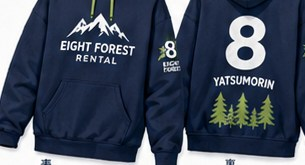
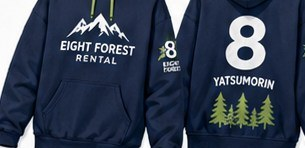
やつもりんグッズ一覧を均一・きれいに（画像切れ/ノイズ解消）
グッズ画像がバラバラの縦横比で切れて見えていたのを、正方形の均一タイル
＋contain（全体表示・切れなし）＋淡い背景＋ドロップシャドウの
商品カタログ風に刷新。Tシャツ/パーカー/ニットキャップ画像の下端に
写り込んでいた生成ノイズ（「車」「宙」風の文字・注意書き）をトリミング除去。
headless実測で全12点フル表示・ノイズ無しを確認。

diff --git a/pages/yatsumorin.html b/pages/yatsumorin.html
@@ -39,13 +39,13 @@
 .ym-quote p{font-size:13.5px;line-height:1.9;color:#15314f;font-weight:700;margin:0}
 .ym-two{display:grid;grid-template-columns:1fr 1fr;gap:12px}
 @media(max-width:520px){.ym-two{grid-template-columns:1fr}}
-.goods-grid{display:grid;grid-template-columns:1fr 1fr;gap:12px}
-.goods-card{border:1px solid var(--border,#dde2e8);border-radius:12px;overflow:hidden;background:#fff}
-.goods-img{height:150px;background:#f4f7f3;border-bottom:1px solid #eef1f5;display:flex;align-items:center;justify-content:center;text-align:center;font-size:11px;color:#9aa7b4;overflow:hidden;padding:8px}
-.goods-img img{max-width:100%;max-height:100%;width:auto;height:auto;object-fit:contain;display:block}
-.goods-body{padding:10px 12px}
-.goods-name{font-size:13.5px;font-weight:800;color:#15314f}
-.goods-price{font-size:12.5px;font-weight:800;color:#d0342c;margin-top:3px}
+.goods-grid{display:grid;grid-template-columns:1fr 1fr;gap:14px}
+.goods-card{border:1px solid var(--border,#dde2e8);border-radius:14px;overflow:hidden;background:#fff;box-shadow:0 2px 8px rgba(20,40,60,.06)}
+.goods-img{aspect-ratio:1/1;background:#f4f7f4;border-bottom:1px solid #eef1f5;display:flex;align-items:center;justify-content:center;overflow:hidden;padding:16px}
+.goods-img img{max-width:100%;max-height:100%;width:auto;height:auto;object-fit:contain;display:block;filter:drop-shadow(0 3px 8px rgba(20,40,60,.10))}
+.goods-body{padding:11px 13px}
+.goods-name{font-size:14px;font-weight:800;color:#15314f}
+.goods-price{font-size:13px;font-weight:800;color:#d0342c;margin-top:3px}
 .goods-price.soon{color:#9aa7b4;font-weight:700}
 .ym-note{font-size:12.5px;line-height:1.85;color:#6b7785;background:#f5f6f8;border:1px solid var(--border,#dde2e8);border-radius:10px;padding:14px 16px;margin-top:14px}
 /* 日常のやつもりん ギャラリー */